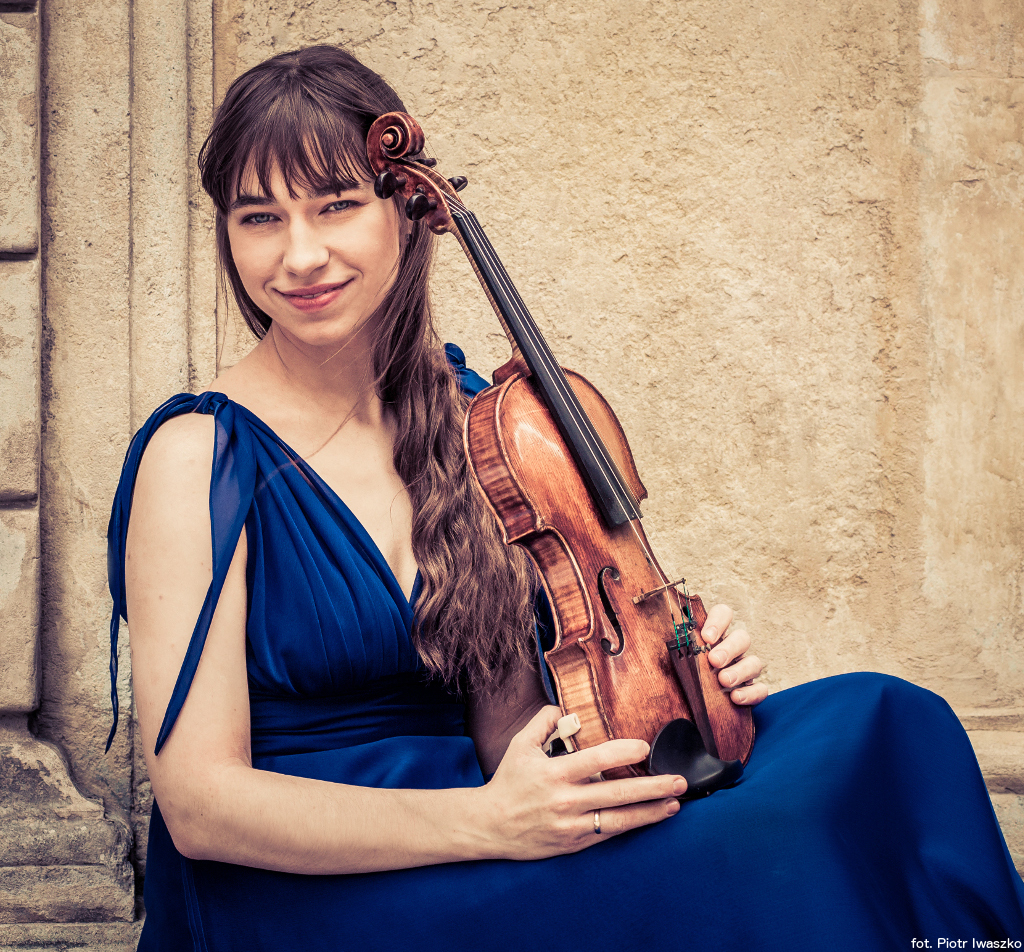
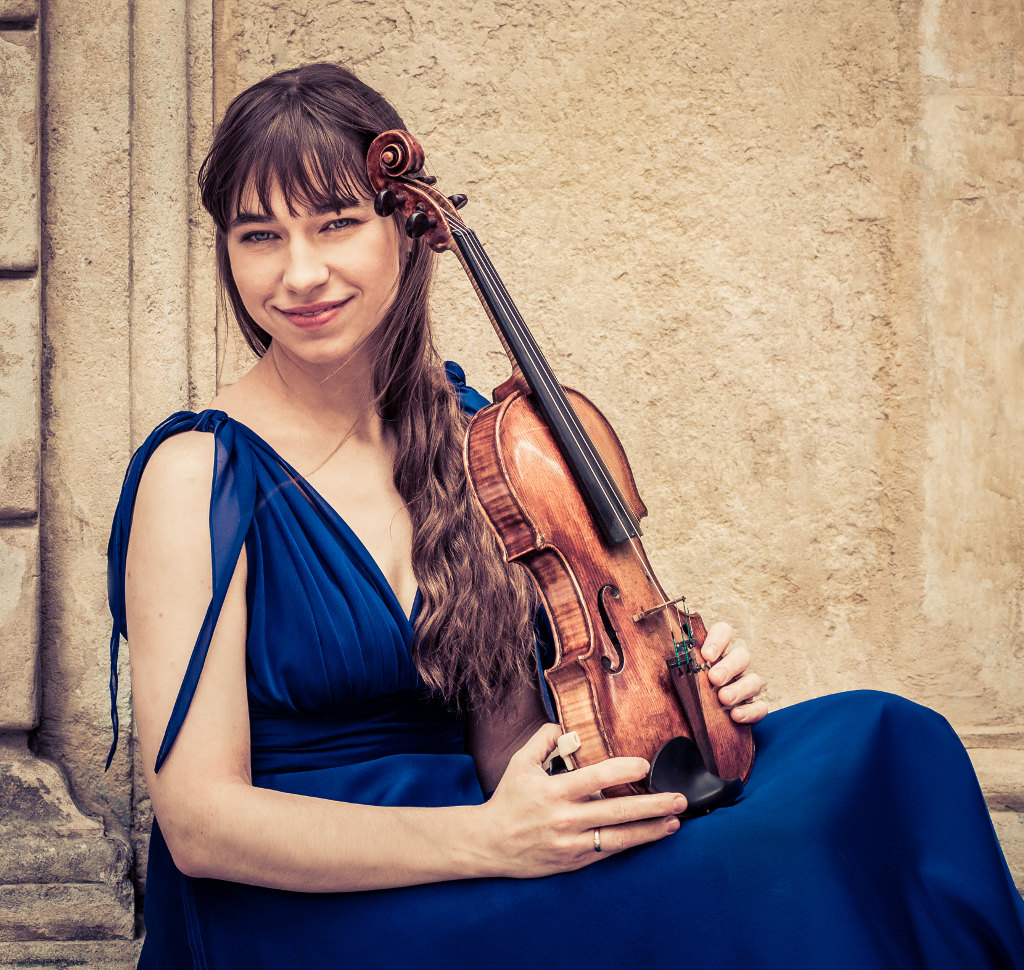
add foto credits as a html text

diff --git a/source/assets/stylesheets/partials/_styles.scss b/source/assets/stylesheets/partials/_styles.scss
@@ -1,3 +1,19 @@
+.image-wrapper {
+  position: relative;
+
+  .image {
+    display: block;
+  }
+
+  .additional-text {
+    position: absolute;
+    bottom: 1px;
+    right: 2px;
+    color: #fff;
+    font-size: 6pt;
+  }
+}
+
 
 section#content {
   width: 712px;

diff --git a/source/assets/stylesheets/partials/_layout.scss b/source/assets/stylesheets/partials/_layout.scss
@@ -96,7 +96,7 @@ section#news {
   color: #666;
   width: 230px;
   margin-left: 10px;
-  margin-top: 152px;
+  margin-top: 121px;
 }
 
 section#news .news .image {
